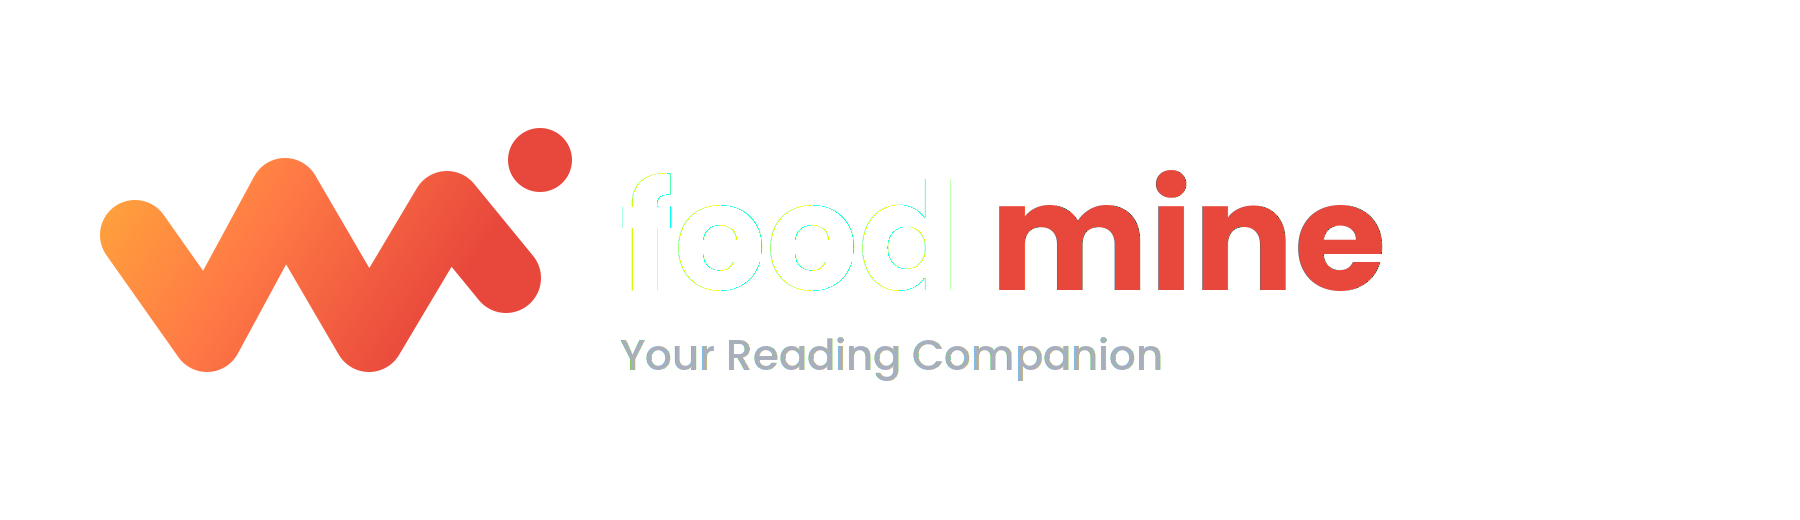
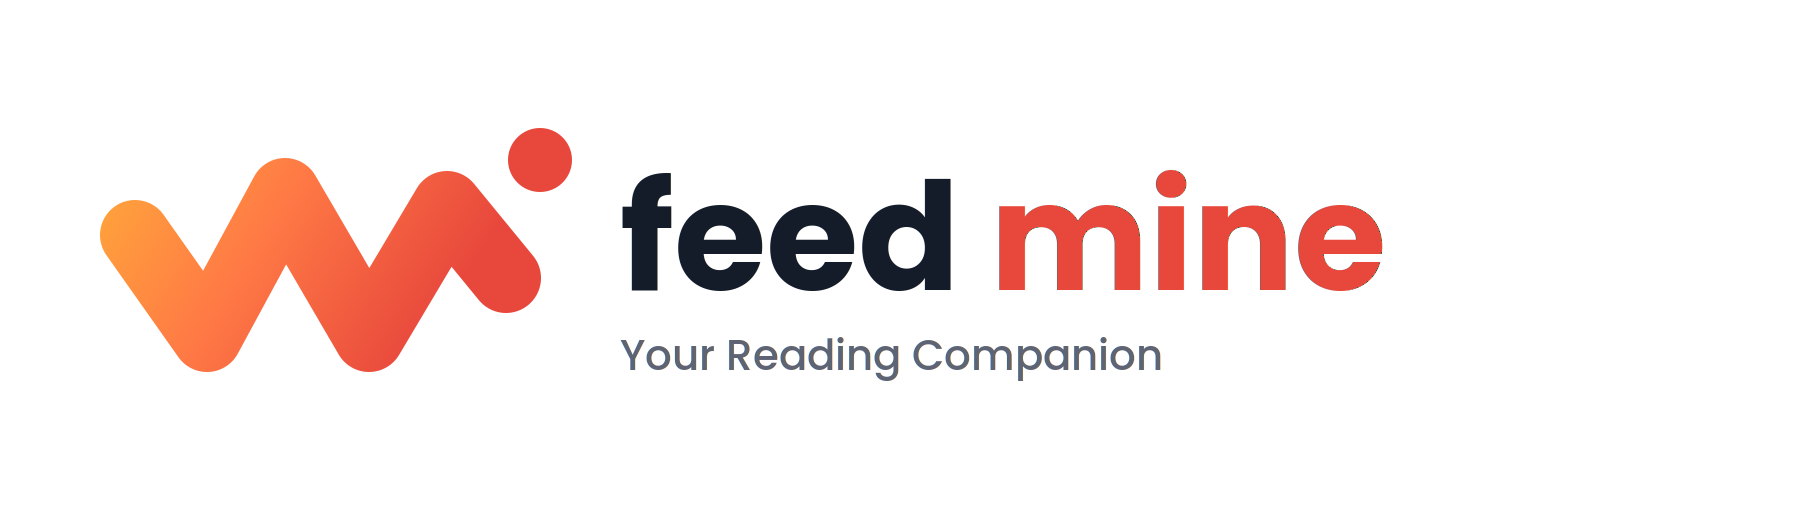
Polish Feedmine site layout

Changed region(s): [[0.3422, 0.3385, 0.5289, 0.5846], [0.3422, 0.6462, 0.6533, 0.7385]]

diff --git a/src/data/products.ts b/src/data/products.ts
@@ -1,5 +1,7 @@
 export const feedmine = {
   name: "Feedmine",
+  summary:
+    "A calmer iOS reader for RSS, podcasts, YouTube, and local news around the world.",
   description:
     "A native iOS news and podcast reader that turns RSS, Atom, JSON Feed, podcasts, and YouTube channels into a calmer, source-first feed. It ships with a global catalog of 61,000+ sources across 190+ countries, local search, bookmarks, and exportable collections.",
   github: "https://github.com/wsmontes/feedmine",
@@ -14,6 +16,8 @@ export const feedmine = {
 export const wawaNote = {
   name: "wawa-note",
   version: "1.0.0",
+  summary:
+    "An open-source AI workspace for meeting evidence, project memory, tasks, and decisions.",
   description:
     "A free, open-source AI workspace that captures meeting evidence — audio, scans, links, notes — and turns it into a searchable project knowledge store with tasks, decisions, and typed relationships. Agentic AI chat navigates your knowledge like a filesystem.",
   github: "https://github.com/wsmontes/wawa-note-ios",